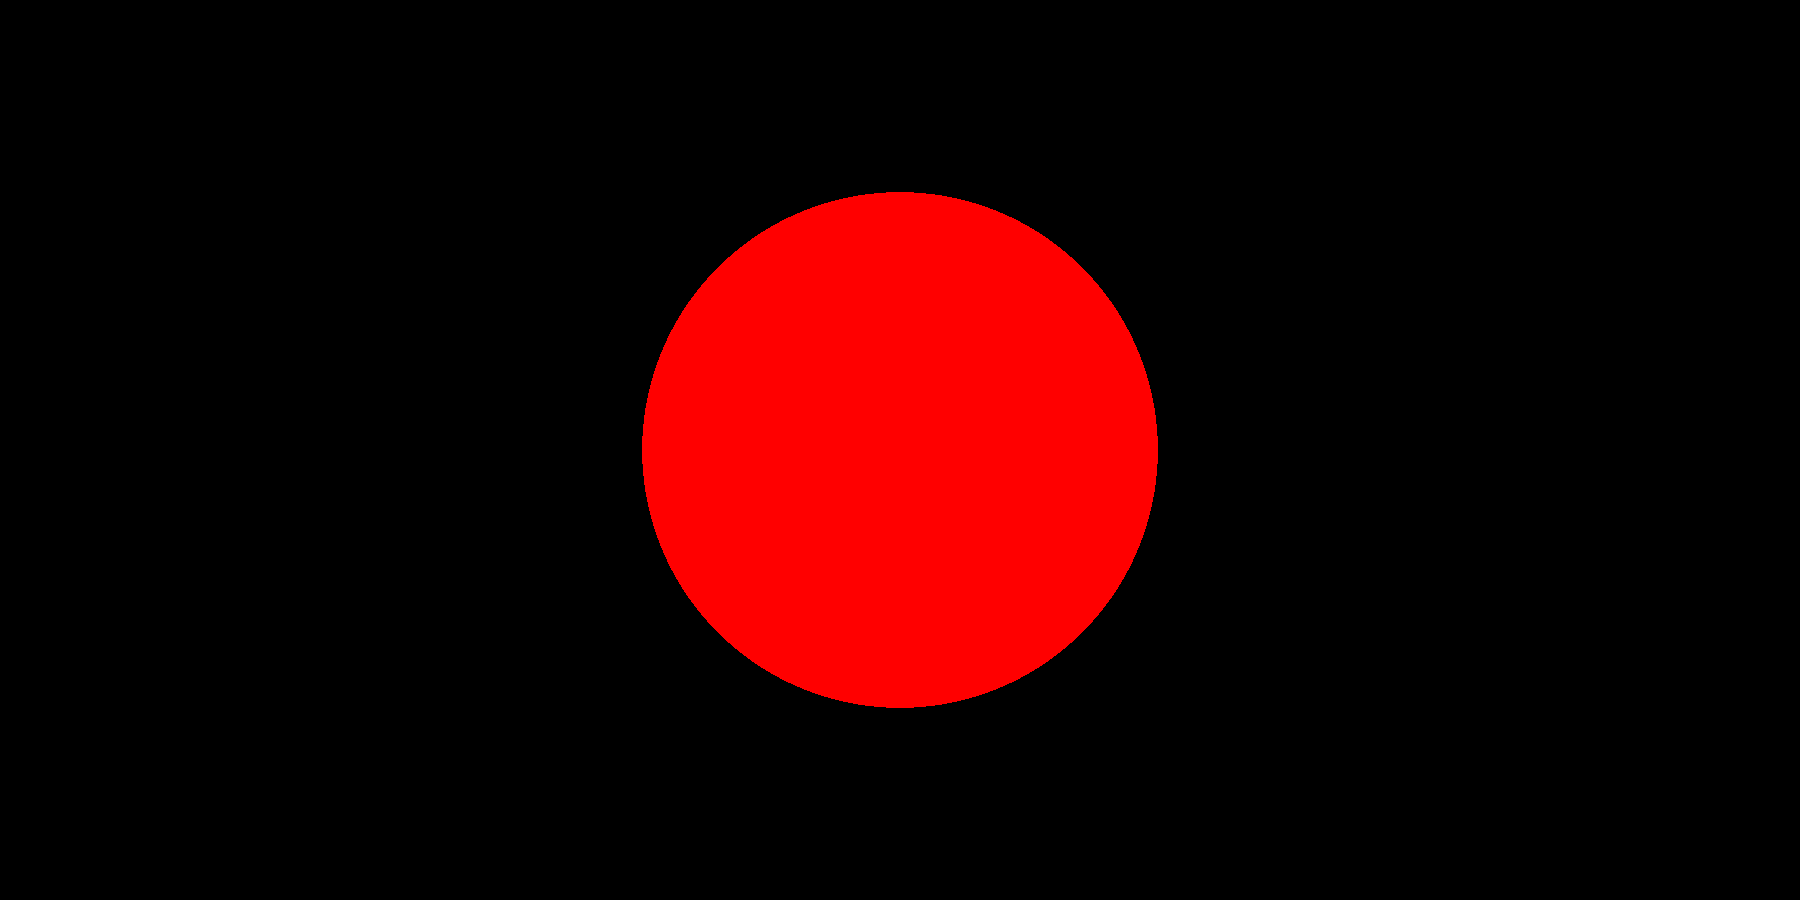
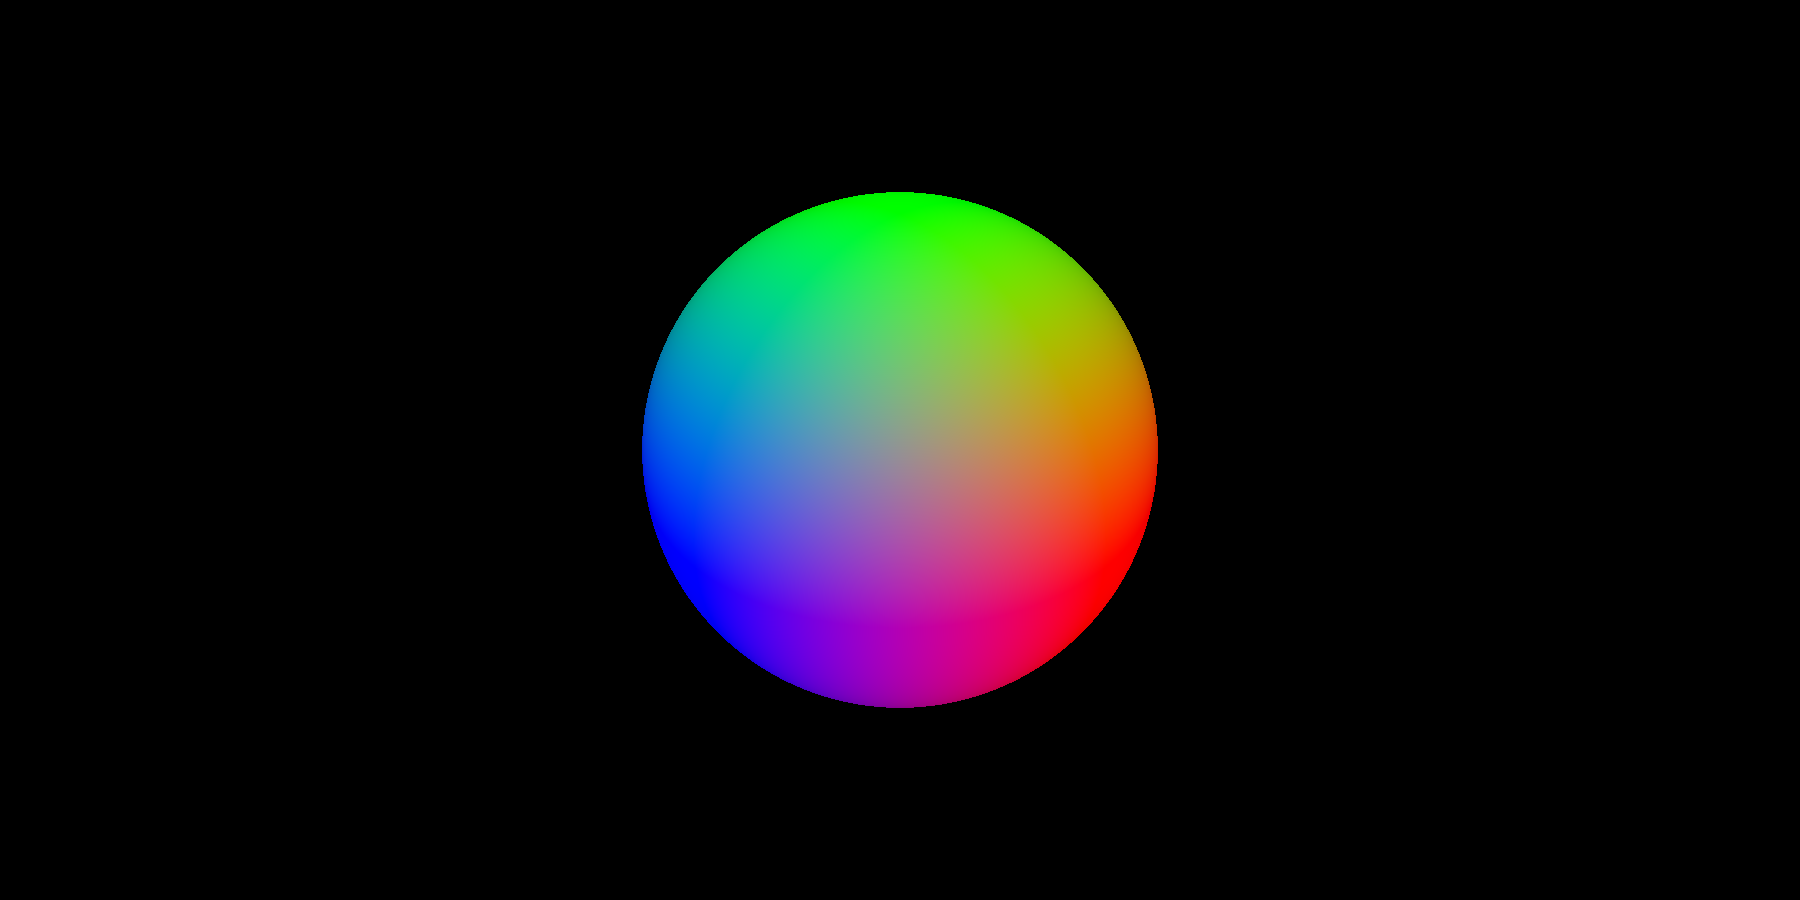
cpu shade using normals

Changed region(s): [[0.3422, 0.2178, 0.6533, 0.8089]]

diff --git a/src/raytracer/cpu/shapes/mod.rs b/src/raytracer/cpu/shapes/mod.rs
@@ -5,6 +5,7 @@ pub mod plane;
 pub mod cube;
 pub mod cylinder;
 
+use glam::DVec3;
 pub use sphere::*;
 pub use plane::*;
 pub use cube::*;
@@ -12,6 +13,7 @@ pub use cylinder::*;
 
 pub trait Hittable {
     fn intersect<'a>(&self, ray: &Ray, object: &'a Object) -> Intersections<'a>; 
+    fn normal_at<'a>(&self, point: DVec3) -> DVec3; 
 }
 
 impl Hittable for Shape {
@@ -21,6 +23,15 @@ impl Hittable for Shape {
             Shape::Plane(plane) => plane.intersect(ray, object),
             Shape::Cube(cube) => cube.intersect(ray, object),
             Shape::Cylinder(cylinder) => cylinder.intersect(ray, object),
+        }
+    }
+    
+    fn normal_at<'a>(&self, point: DVec3) -> DVec3 {
+        match self {
+            Shape::Sphere(sphere) => sphere.normal_at(point),
+            Shape::Plane(plane) => plane.normal_at(point),
+            Shape::Cube(cube) => cube.normal_at(point),
+            Shape::Cylinder(cylinder) => cylinder.normal_at(point),
         }
     }
 }

diff --git a/src/raytracer/cpu/intersections.rs b/src/raytracer/cpu/intersections.rs
@@ -168,6 +168,7 @@ pub struct IntersectionInfos<'a> {
     pub t: f64,
     pub object: &'a Object,
     pub point: DVec3,
+    pub normal: DVec3,
 }
 
 impl<'a> IntersectionInfos<'a> {
@@ -175,12 +176,20 @@ impl<'a> IntersectionInfos<'a> {
         let intersection = intersections.get(intersection_index).unwrap();
         let t = intersection.t;
         let point = ray.at(t);
+        let eyev = -ray.direction;
         let object = intersection.object;
+        let mut normal = object.shape().normal_at(point);
+        let mut inside = false;
+        if normal.dot(eyev) < 0.0 {
+            inside = true;
+            normal = -normal;
+        }
 
         Self {
             t,
             object,
             point,
+            normal,
         }
     }
 }

diff --git a/src/raytracer/cpu/mod.rs b/src/raytracer/cpu/mod.rs
@@ -84,9 +84,14 @@ impl CpuRaytracer {
         match intersections.hit_index(StandardHit {}) {
             Some(index) => {
                 let infos = IntersectionInfos::new(&intersections, index, &ray);
-                Some(Color::RED)
+                Some(Self::shade_hit(&infos))
             },
             None => None
         }
+    }
+
+    fn shade_hit(infos: &IntersectionInfos) -> Color {
+        let normal = infos.normal;
+        Color::new(normal.x, normal.y, normal.z)
     }
 }

diff --git a/src/raytracer/cpu/shapes/cylinder.rs b/src/raytracer/cpu/shapes/cylinder.rs
@@ -1,3 +1,5 @@
+use glam::DVec3;
+
 use crate::{common::{shapes::Cylinder, Object}, raytracer::cpu::{intersections::{Intersection, Intersections}, shapes::Hittable, Ray}};
 
 impl Hittable for Cylinder {
@@ -71,5 +73,9 @@ impl Hittable for Cylinder {
 
         intersections.append(intersect_caps(self, ray, object));
         intersections
+    }
+    
+    fn normal_at<'a>(&self, point: DVec3) -> DVec3 {
+        todo!()
     }
 }

diff --git a/src/raytracer/cpu/shapes/sphere.rs b/src/raytracer/cpu/shapes/sphere.rs
@@ -1,3 +1,5 @@
+use glam::DVec3;
+
 use crate::{common::{shapes::Sphere, Object}, raytracer::cpu::{intersections::{Intersection, Intersections}, shapes::Hittable, Ray}};
 
 
@@ -29,6 +31,11 @@ impl Hittable for Sphere {
                 )
             ]
         )
+    }
+    
+    fn normal_at<'a>(&self, point: DVec3) -> DVec3 {
+        // for a unit sphere at 0,0,0
+        point.normalize()
     }
 }
 

diff --git a/src/raytracer/cpu/shapes/plane.rs b/src/raytracer/cpu/shapes/plane.rs
@@ -1,5 +1,7 @@
 use std::f64::EPSILON;
 
+use glam::DVec3;
+
 use crate::{common::{shapes::Plane, Object}, raytracer::cpu::{intersections::{Intersection, Intersections}, shapes::Hittable, Ray}};
 
 impl Hittable for Plane {
@@ -15,6 +17,10 @@ impl Hittable for Plane {
         }
 
         xs
+    }
+    
+    fn normal_at<'a>(&self, point: DVec3) -> DVec3 {
+        todo!()
     }
 }
 

diff --git a/src/raytracer/cpu/shapes/cube.rs b/src/raytracer/cpu/shapes/cube.rs
@@ -1,3 +1,5 @@
+use glam::DVec3;
+
 use crate::{common::{shapes::Cube, Object}, raytracer::cpu::{intersections::{Intersection, Intersections}, shapes::Hittable, Ray}};
 
 impl Hittable for Cube {
@@ -41,6 +43,10 @@ impl Hittable for Cube {
                 ]
             )
         }
+    }
+    
+    fn normal_at<'a>(&self, point: DVec3) -> DVec3 {
+        todo!()
     }
 }
 
